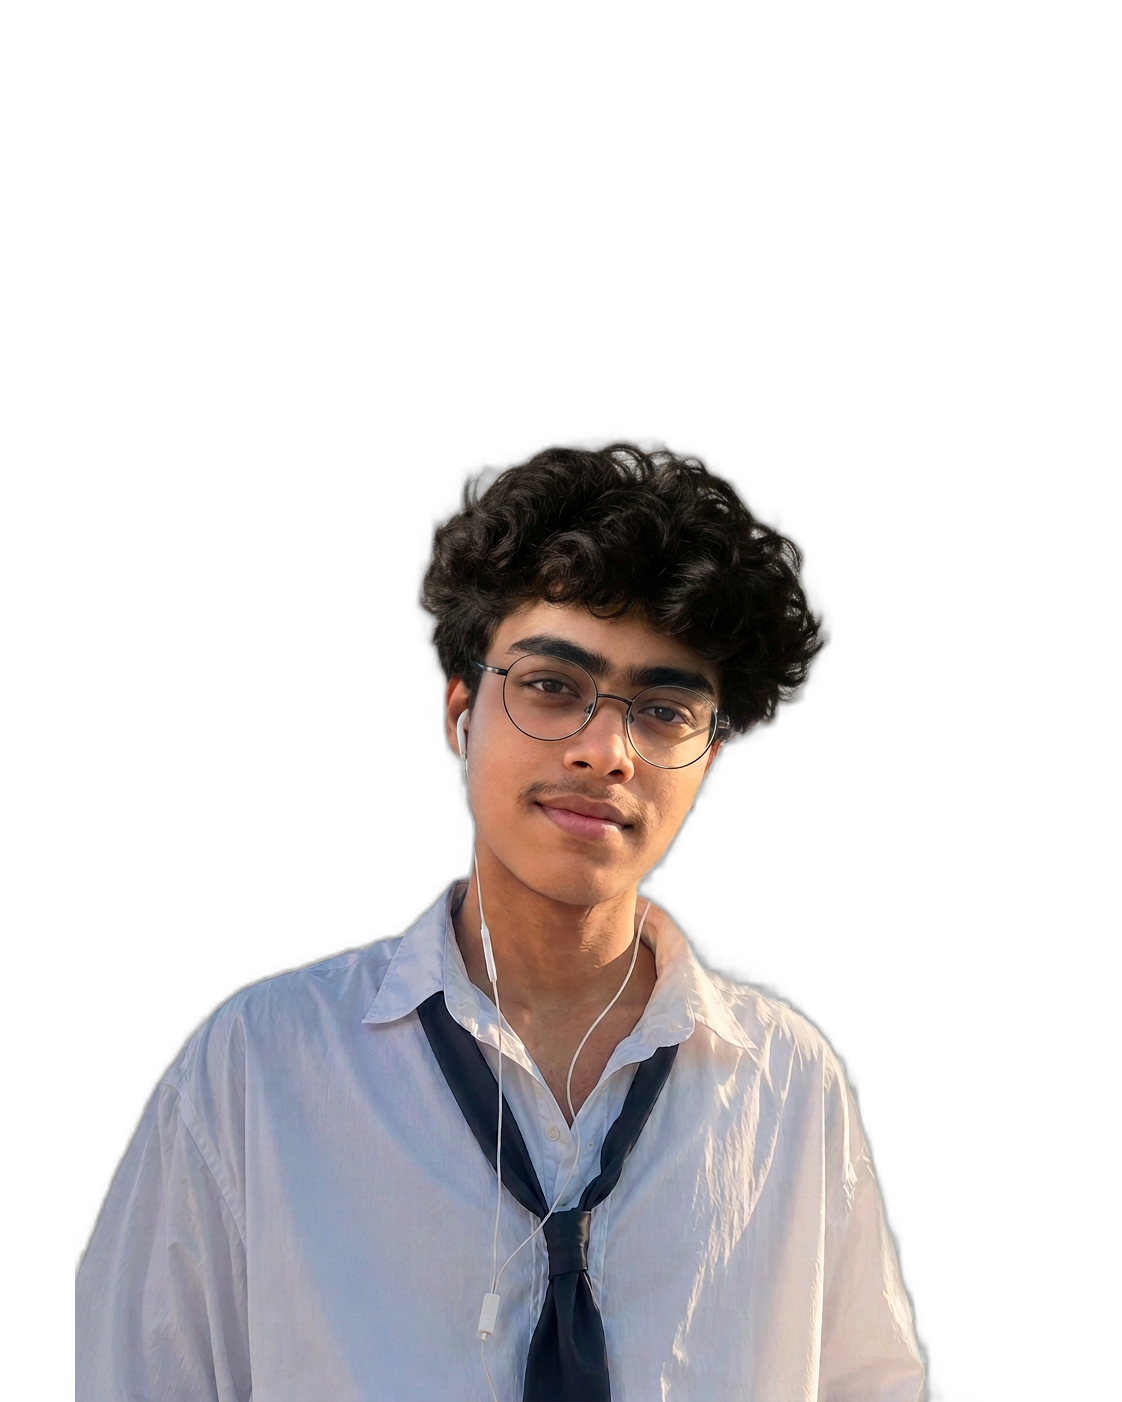
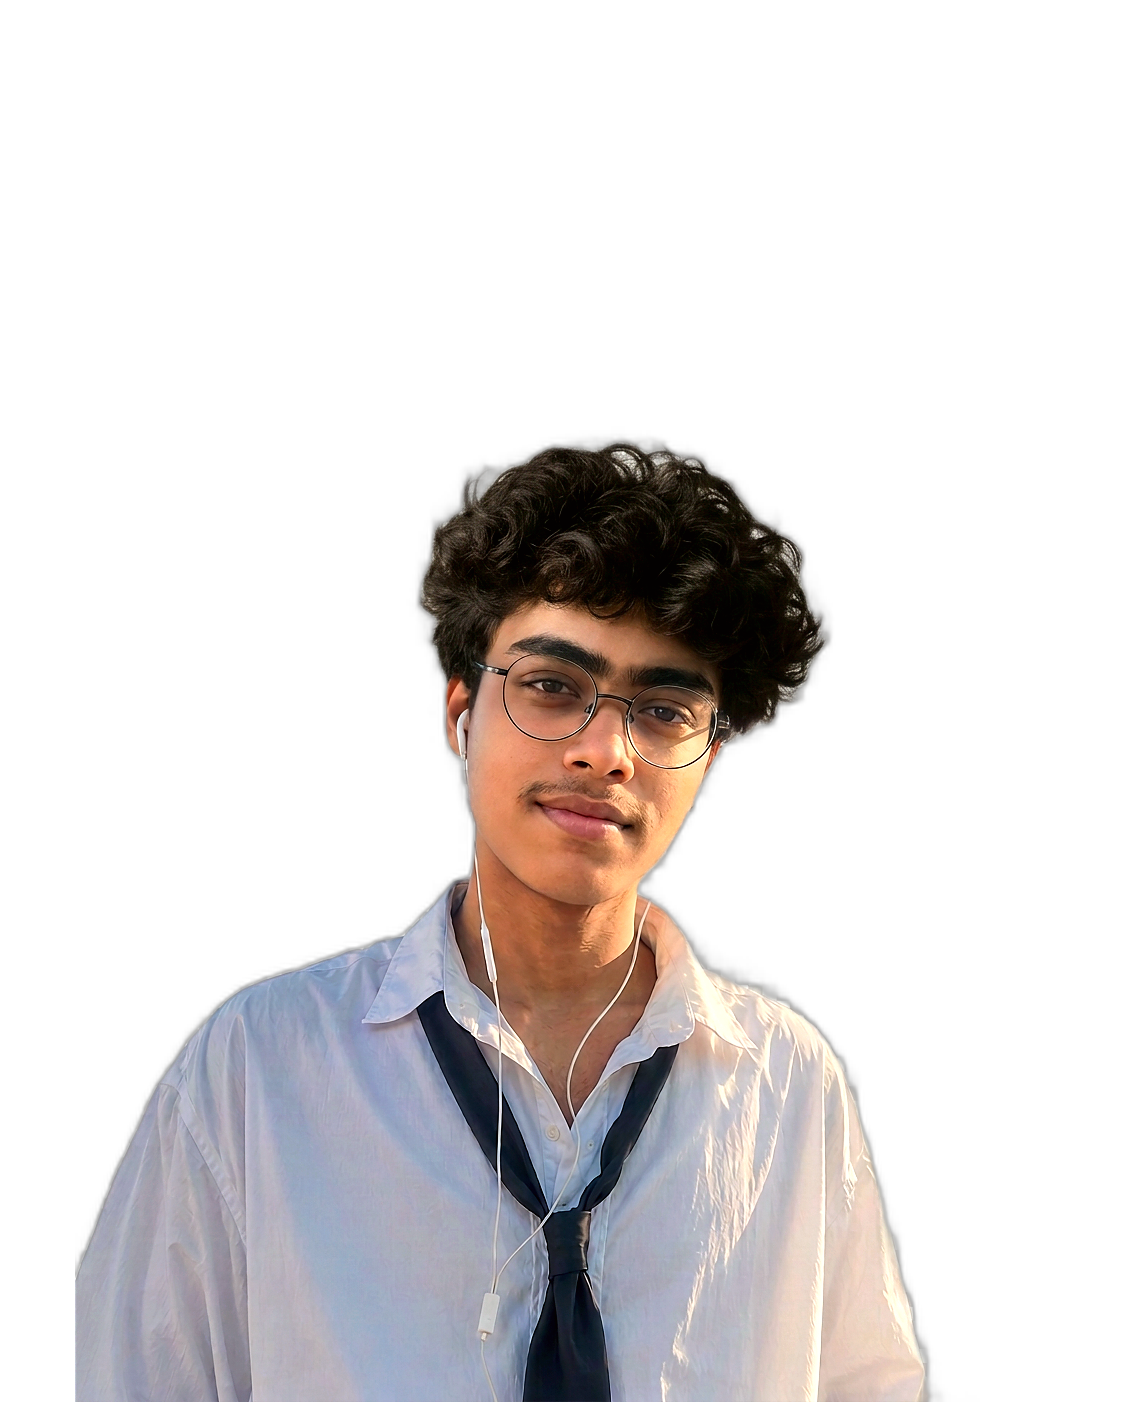
Ultra tune hero clarity scale and reference tone

diff --git a/index.html b/index.html
@@ -56,27 +56,27 @@
         will-change: transform;
       }
       .banner-three-man img {
-        width: 500px;
-        max-width: 90vw;
+        width: 520px;
+        max-width: 92vw;
         height: auto;
         display: block;
         background: transparent !important;
         border-radius: 0 !important;
         box-shadow: none !important;
         object-fit: contain;
-        filter: drop-shadow(0 18px 24px rgba(0,0,0,0.10));
+        filter: none !important;
       }
       @media (max-width: 991px){
-        .banner-three-man img { width: 400px; max-width: 96vw; }
-        .banner-three-man { bottom: 35% !important; }
+        .banner-three-man img { width: 450px; max-width: 104vw; }
+        .banner-three-man { bottom: 40% !important; }
       }
       @media (max-width: 575px){
-        .banner-three-man img { width: 390px; max-width: 94vw; }
-        .banner-three-man { bottom: 35% !important; }
+        .banner-three-man img { width: 435px; max-width: 102vw; }
+        .banner-three-man { bottom: 41% !important; }
       }
       @media (max-width: 390px){
-        .banner-three-man img { width: 370px; max-width: 94vw; }
-        .banner-three-man { bottom: 36% !important; }
+        .banner-three-man img { width: 415px; max-width: 102vw; }
+        .banner-three-man { bottom: 42% !important; }
       }
       /* Skills section custom */
       .skills-three-area {

diff --git a/HERO_FINAL_UPDATE_REPORT.md b/HERO_FINAL_UPDATE_REPORT.md
@@ -26,3 +26,8 @@ Updated the hero portrait using the user-selected base image with raw-photo matc
 - Rebuilt the hero PNG onto a 1122x1402 transparent canvas to match the reference source image proportions.
 - This reduces the over-zoomed mobile appearance while preserving the selected face, outfit, and final raw-tone/eyebrow edits.
 - Visible subject is now padded and positioned closer to the reference hero asset, preventing the face from filling the entire mobile viewport.
+
+## Ultra final clarity and scale pass
+- Removed drop-shadow filter so the PNG alpha cutout stays visually clean with no glow/box impression.
+- Increased mobile scale and raised the hero cutout to better match the reference composition while keeping the reference-proportion canvas.
+- Applied a subtle reference-style tone/contrast pass for richer skin tone, darker hair depth, and cleaner premium lighting without changing identity or pose.
